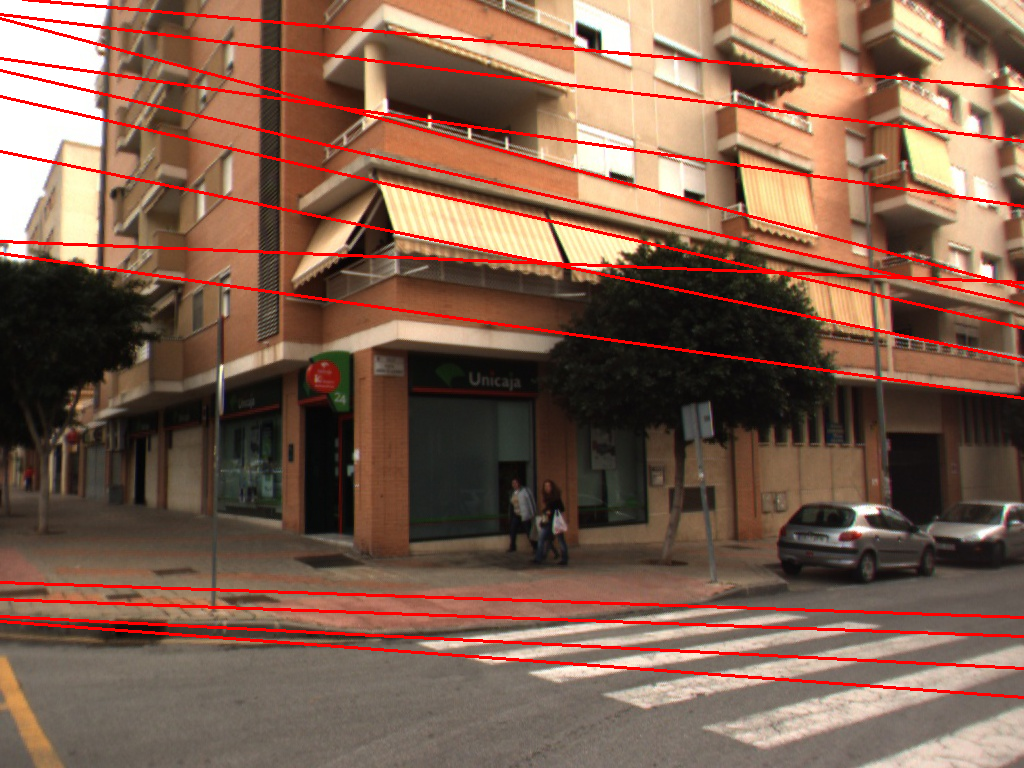
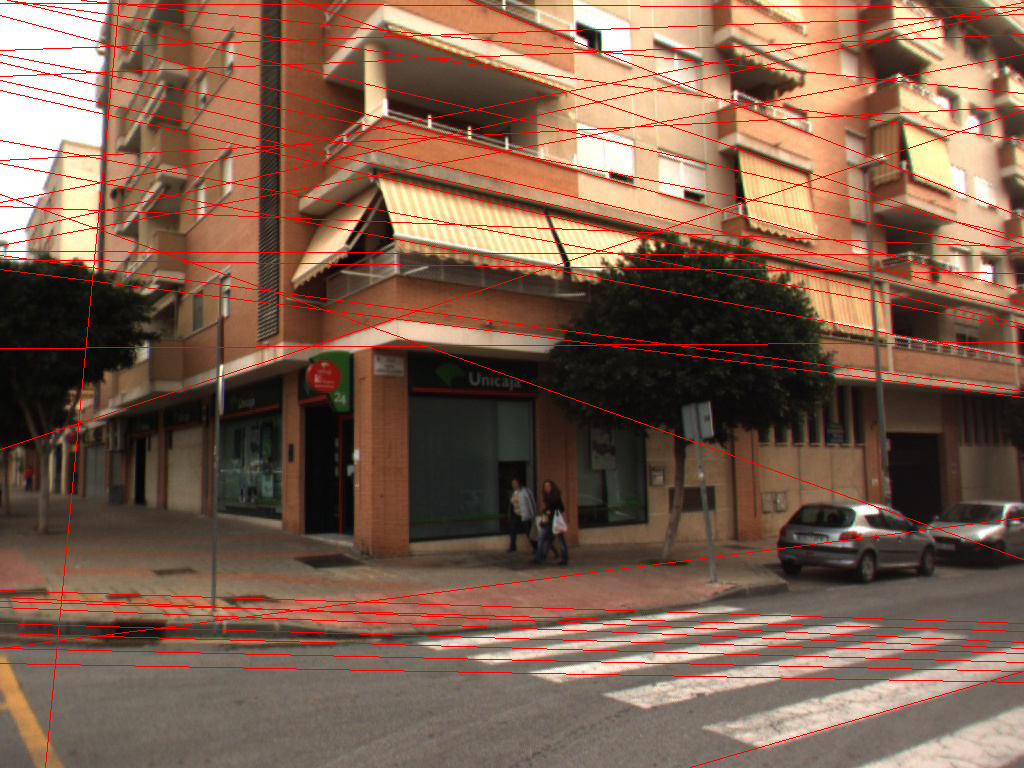
Tuned some parameters

diff --git a/Assignment3/LineFitting.cpp b/Assignment3/LineFitting.cpp
@@ -15,7 +15,7 @@ Mat LineFit::EdgeDetector() {
 	Mat filtImg = Mat::zeros(img.size(), img.type());
 	/*converting image to grayscale*/
 	cvtColor(img, filtImg, COLOR_BGR2GRAY);
-	//GaussianBlur(filtImg, filtImg, kernel.size(), 0, 0);
+	GaussianBlur(filtImg, filtImg, kernel.size(), 0, 0);
 
 	/*step 2 : Thresholding*/
 	double maxVal = 255.;
@@ -51,9 +51,9 @@ void LineFit::RobustFitting() {
 	/*Fit the line robustly*/
 	vector<vector<int>> inliers;
 	vector<Mat> bestLines;
-	int threshold = 10;
+	int threshold = 5;
 	int numOfIterations = iterations;
-	int minInlierNum = 700;
+	int minInlierNum = 200;
 	this->SequentialRANSAC(points, inliers, bestLines, threshold, 0.999999, numOfIterations, minInlierNum);
 
 	cout << "Number of lines found:" << bestLines.size() << endl;
@@ -70,7 +70,7 @@ void LineFit::RobustFitting() {
 			Point2d(0, -c2 / b2),
 			Point2d(fitImg.cols, (-a2 * fitImg.cols - c2) / b2),
 			cv::Scalar(0, 0, 255),
-			2);
+			1);
 
 		// Calculate the error or the Least Squares Fitting line
 		double averageError = 0.0;
@@ -120,6 +120,7 @@ void LineFit::SequentialRANSAC(vector<Point2d> &points, vector<vector<int>> &inl
 
 	}
 }
+
 
 // Apply RANSAC to fit points to a 2D line
 void LineFit::FitLineRANSAC(const vector<Point2d> &points_, const vector<int> &mask_, vector<int> &inliers_, Mat &line_,

diff --git a/Assignment3/LineFitting.h b/Assignment3/LineFitting.h
@@ -27,6 +27,7 @@ private:
 							int lineNumber = numeric_limits<int>::max(), Mat *image = nullptr);
 
 	size_t GetIterationNumber(const double &inlierRatio_, const double &confidence_, const size_t &sampleSize_);
+	void FitLineLSQ(const vector<Point2d> * const points, vector<int> &inliers, Mat &line);
 	vector<Point2d> GeneratePoints(Mat& edge);
 };
 #endif // !__LINEFIT__
